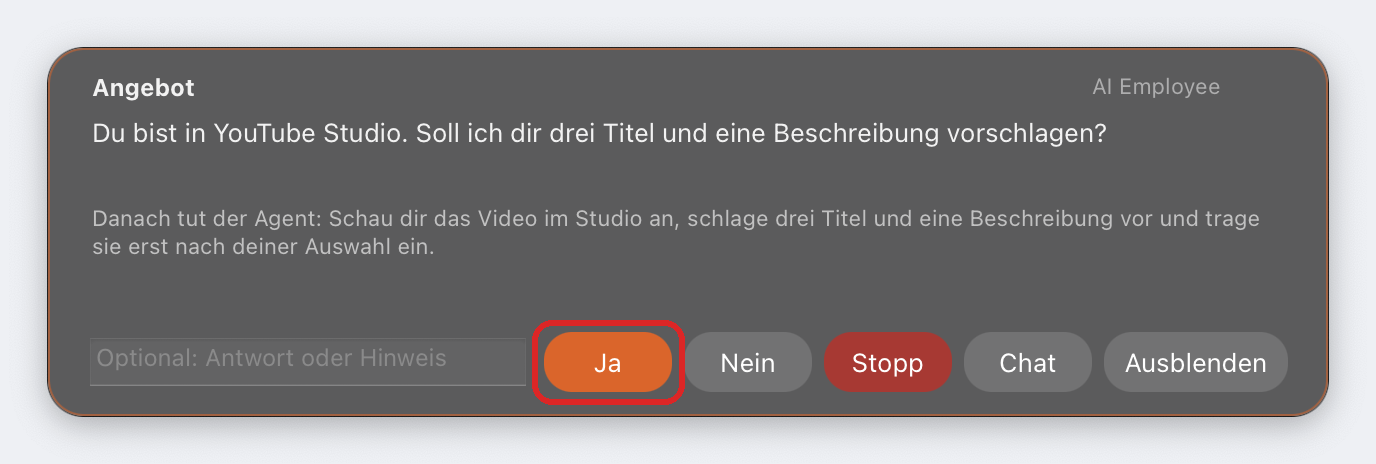
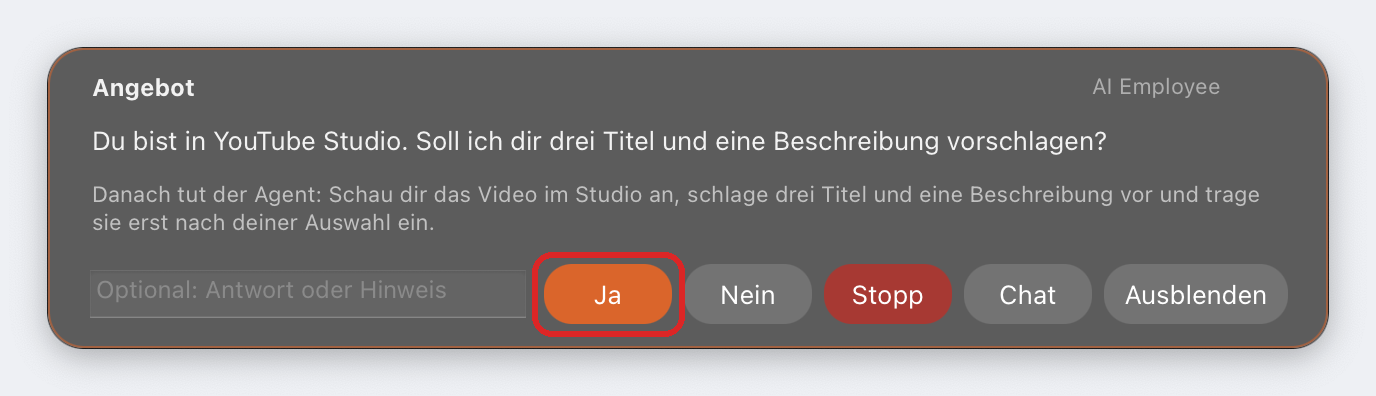
fix(bridge): Custom-LLM sieht beim Ansehen nur das Gedächtnis, Overlay-Höhe folgt dem Inhalt (#1019)
- view_image holt auch Adressen, grep/glob reichen Muster an Programme weiter —
  im Nur-ansehen-Zug wieder nur memory_search/memory_list.
- Mac-Overlay ohne Zeilengrenze: Hoehe nach Text und Auftrag, nichts wird
  abgeschnitten (auf dem Mac mit 300-Zeichen-Auftrag geprueft).

diff --git a/computer-use-bridge/tray_app.py b/computer-use-bridge/tray_app.py
@@ -2724,6 +2724,7 @@ class _MacOverlay:
         hinten.layer().setBorderWidth_(1)
         hinten.layer().setBorderColor_(farbe(0.92, 0.36, 0.04, 0.55).CGColor())
         cv.addSubview_(hinten)
+        self.hinten = hinten
 
         def label(text, x, y, w, h, groesse, fett=False, alpha=0.92):
             lbl = NSTextField.labelWithString_(text)
@@ -2731,15 +2732,16 @@ class _MacOverlay:
             lbl.setTextColor_(farbe(1, 1, 1, alpha))
             lbl.setFrame_(((x, y), (w, h)))
             lbl.setLineBreakMode_(0)
-            lbl.setMaximumNumberOfLines_(3)
+            # Keine Zeilengrenze: die Hoehe richtet sich nach dem Text (_anordnen) —
+            # abgeschnitten wird nichts, das Ja gilt dem ganzen Text.
+            lbl.setMaximumNumberOfLines_(0)
             cv.addSubview_(lbl)
             return lbl
 
         self.kopf = label("", 20, H - 30, W - 200, 18, 12, fett=True)
-        label("AI Employee", W - 120, H - 30, 100, 18, 11, alpha=0.5)
+        self.marke = label("AI Employee", W - 120, H - 30, 100, 18, 11, alpha=0.5)
         self.text = label("", 20, H - 74, W - 40, 40, 13)
         self.detail = label("", 20, 50, W - 40, 56, 11, alpha=0.62)
-        self.detail.setMaximumNumberOfLines_(5)
         self.eingabe = NSTextField.alloc().initWithFrame_(((20, 14), (W - 420, 26)))
         self.eingabe.cell().setPlaceholderString_("Optional: Antwort oder Hinweis")
         self.eingabe.setFont_(NSFont.systemFontOfSize_(12))
@@ -2772,6 +2774,7 @@ class _MacOverlay:
             self.kopf.setStringValue_(m.titel)
             self.text.setStringValue_(m.text)
             self.detail.setStringValue_(m.detail)
+            self._anordnen()
             self.eingabe.setHidden_(not m.mit_eingabe)
             if m.mit_eingabe:
                 self.eingabe.setStringValue_("")
@@ -2805,6 +2808,27 @@ class _MacOverlay:
         except Exception:  # noqa: BLE001 — ein Zeichenfehler darf die Bridge nicht stoeren
             app_log.warning("Overlay nicht zeichenbar", exc_info=True)
 
+
+    def _anordnen(self) -> None:
+        """Hoehe nach dem Inhalt: Kopf, Text, Auftrag, Knoepfe — oben bleibt oben."""
+        breite = self.W - 40
+
+        def hoehe(lbl) -> float:
+            if not str(lbl.stringValue()):
+                return 0.0
+            return float(lbl.cell().cellSizeForBounds_(((0, 0), (breite, 10000))).height)
+
+        th, dh = hoehe(self.text), hoehe(self.detail)
+        H = 12 + 30 + th + (8 + dh if dh else 0) + 14 + 30 + 12
+        alt = self.panel.frame()
+        oben = alt.origin.y + alt.size.height
+        self.panel.setFrame_display_(((alt.origin.x, oben - H), (self.W, H)), True)
+        self.hinten.setFrame_(((0, 0), (self.W, H)))
+        self.kopf.setFrameOrigin_((20, H - 30))
+        self.marke.setFrameOrigin_((self.W - 120, H - 30))
+        self.text.setFrame_(((20, H - 30 - 8 - th), (breite, th)))
+        self.detail.setFrame_(((20, 56), (breite, dh)))
+        self.detail.setHidden_(not dh)
 
     def _sperrzone_setzen(self) -> None:
         """Rahmen in Bridge-Koordinaten (logische Punkte, oben links) umrechnen."""

diff --git a/agent/app/llm_chat_handler.py b/agent/app/llm_chat_handler.py
@@ -138,14 +138,13 @@ SEARCH_TOOLS_DEF = {
 
 
 #: Nur-ansehen-Zug (#1019, Bridge-Beobachter): Der Agent sieht ein Bildschirmfoto und
-#: soll nur ANBIETEN, nicht handeln — lesen ja (Dateien im Arbeitsbereich, das
-#: Gedaechtnis), schreiben, senden, klicken nein. Eine Webseite auf dem Bildschirm
-#: darf ihn weder handeln lassen noch sich ins Gedaechtnis schreiben. Gleiche Grenze
-#: in Claude Code (``Read`` + Gedaechtnis nur lesend) und Codex (Sandbox nur lesend,
-#: ohne Netz und MCP-Server).
-NUR_ANSEHEN_WERKZEUGE = frozenset({
-    "memory_search", "memory_list", "read_file", "view_image", "list_files", "grep", "glob",
-})
+#: soll nur ANBIETEN, nicht handeln. Hier nur lesendes Gedaechtnis — das Bild sieht
+#: dieses Modell direkt. Bewusst OHNE read_file/view_image/grep/glob: view_image
+#: holt auch Adressen (ein Weg nach draussen), grep/glob reichen Muster an
+#: Programme weiter. Die CLIs bekommen nur, was sie fuer das Bild brauchen (Claude
+#: Code ``Read``, Codex Sandbox nur lesend ohne Netz) — nirgends Schreiben, Senden,
+#: Klicken; was der Agent sieht, landet nur im Angebot, das der Mensch ganz liest.
+NUR_ANSEHEN_WERKZEUGE = frozenset({"memory_search", "memory_list"})
 
 
 def _tokenize(text: str) -> list[str]:

diff --git a/agent/tests/test_nur_ansehen.py b/agent/tests/test_nur_ansehen.py
@@ -53,13 +53,12 @@ class GedaechtnisNurLesen(unittest.TestCase):
         self.assertIn("mcp__memory__memory_save", gesperrt)
         self.assertIn("mcp__memory__memory_delete", gesperrt)
 
-    def test_custom_llm_liest_nur(self):
+    def test_custom_llm_liest_nur_das_gedaechtnis(self):
+        """view_image holt auch Adressen, grep/glob reichen Muster an Programme weiter —
+        beides gehoert nicht in einen Zug, den fremder Bildschirminhalt steuern kann."""
         from app.llm_chat_handler import NUR_ANSEHEN_WERKZEUGE
 
-        self.assertIn("read_file", NUR_ANSEHEN_WERKZEUGE)
-        for verboten in ("memory_save", "memory_delete", "write_file", "edit_file", "bash",
-                         "web_fetch", "computer_use", "send_message"):
-            self.assertNotIn(verboten, NUR_ANSEHEN_WERKZEUGE)
+        self.assertEqual(NUR_ANSEHEN_WERKZEUGE, {"memory_search", "memory_list"})
 
 
 class _Publisher:
